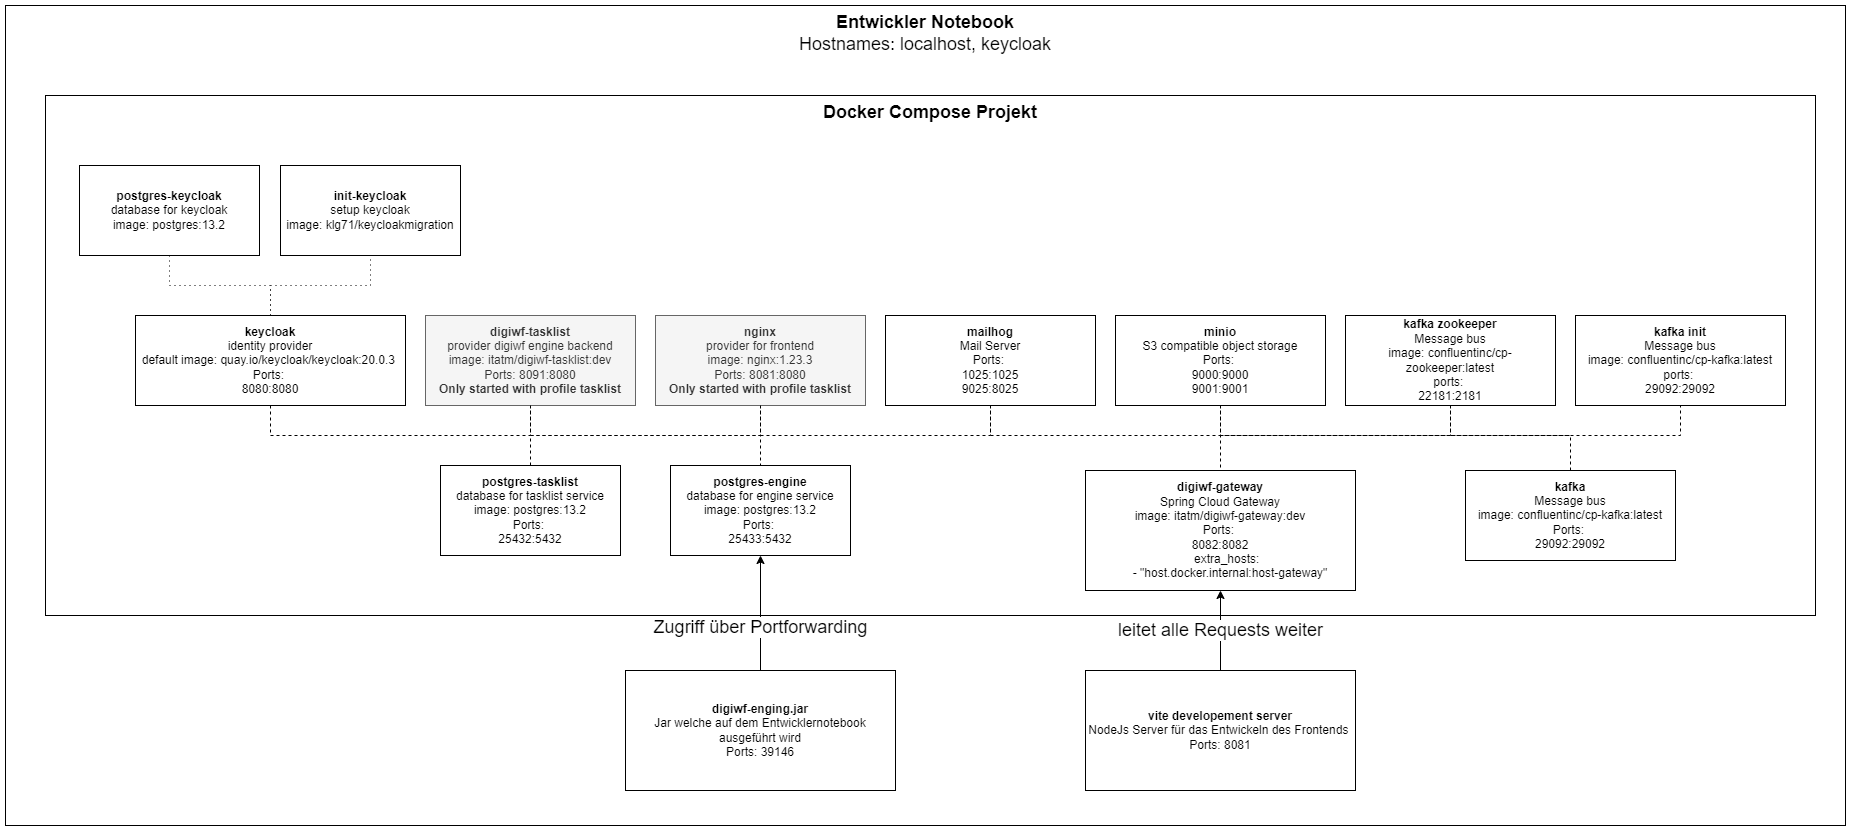
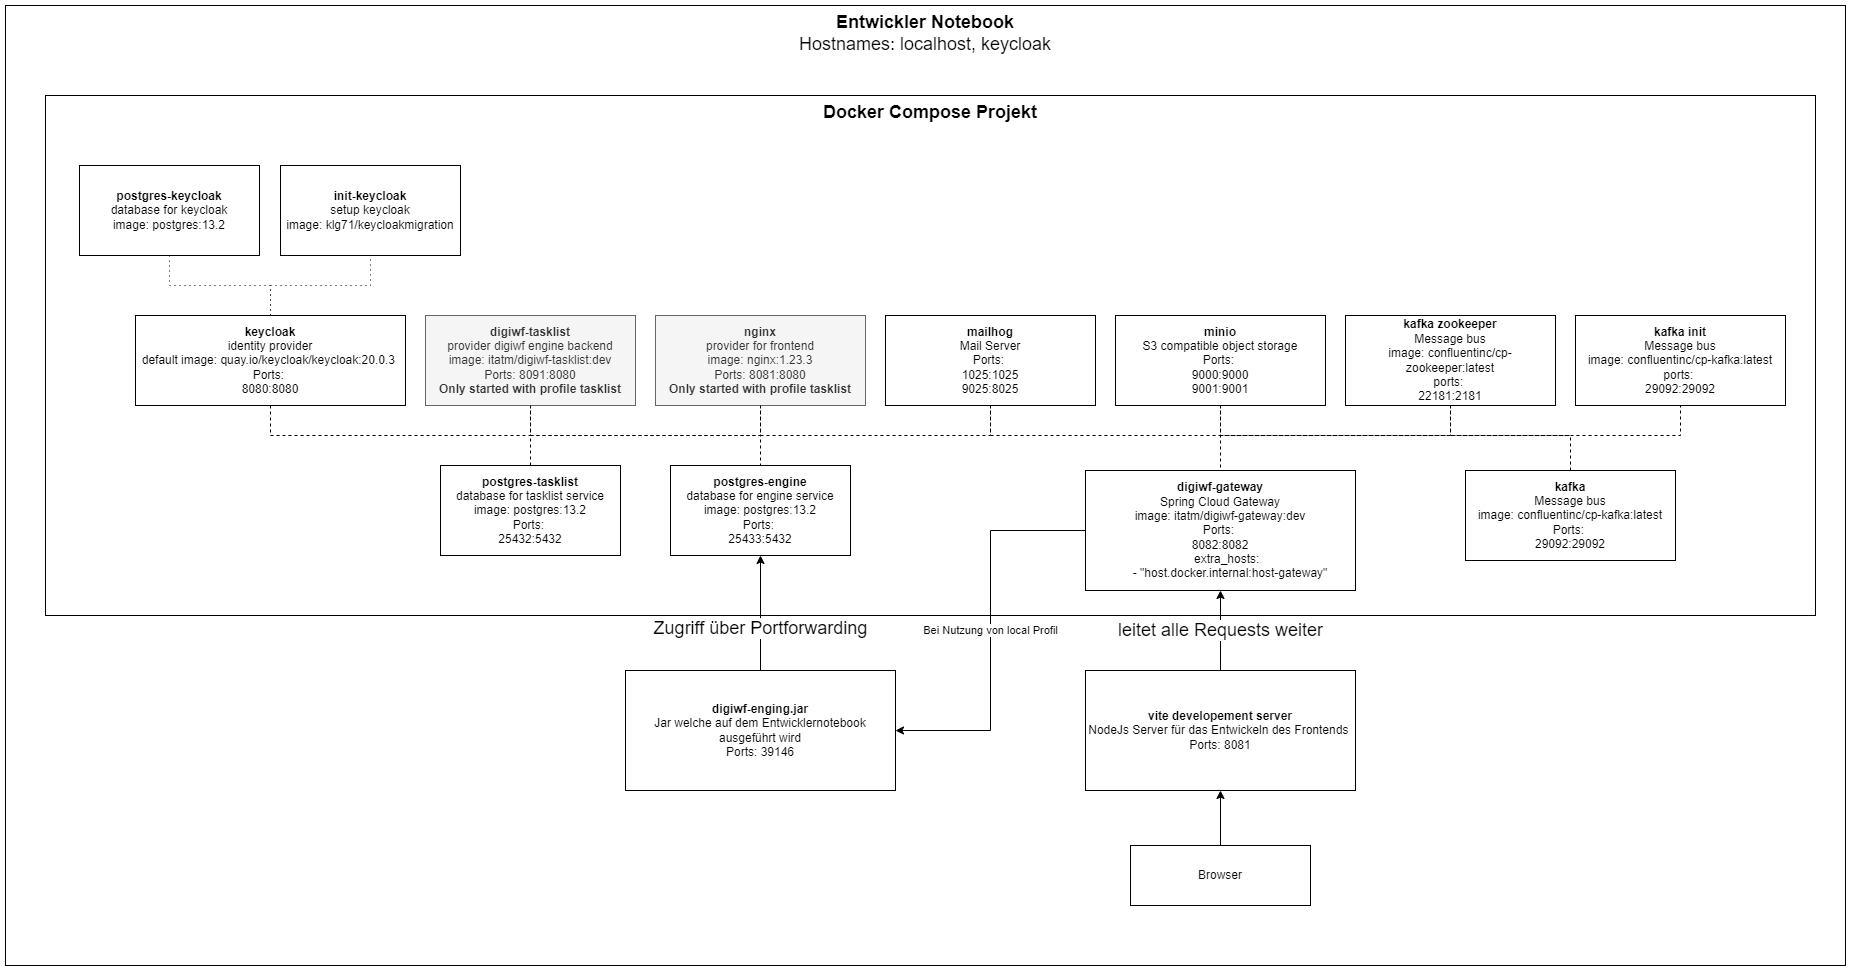
#182: worked on documentation

diff --git a/docs/src/documentation/guides/technical-setup/README.md b/docs/src/documentation/guides/technical-setup/README.md
@@ -29,20 +29,69 @@ Die lokale Infrastruktur ist mittels docker-compose aufgesetzt.
 
 In der folgenden Abbildung ist der grundlegende Aufbau zu sehen:
 
-![grundlegendender Aufbau des lokalen Stacks](~@source/images/platform/guides/technical-setup/docker-setup.png)
+![grundlegender Aufbau des lokalen Stacks](~@source/images/platform/guides/technical-setup/docker-setup.png)
 
+Dabei werden folgende Bausteine verwendet:
 
-
+* [PostgreSQL](https://www.postgresql.org/)
+* [Keycloak](https://www.keycloak.org/)
+* [Keycloak Migration](https://github.com/mayope/keycloakmigration)
+* [Apache Kafka](https://kafka.apache.org/)
+* [Nginx](https://www.nginx.com/)
 
 ### Mögliche Szenarien zum Starten der Infrastruktur
 
+Aktuell gibt es zwei mögliche Szenarien.
+
 #### Szenario 1: lokale Infrastruktur starten um Tasklist Backend und Frontend zu entwickeln
 
-Im Ordner _stack_ ausführen:
+Das erste Szenario ist für die Entwicklung der Tasklist (aktuelles Wording: Engine). Dabei wird das Docker-Compose Projekt so gestartet, dass die notwendigen Servies mit der Tasklist-backend Jar (aktuelles Wording: digiwf-engine) und dem Vite Server für das Tasklist Frontend kommunizieren können.
+
+Dazu in der `stack/docker-compose.yaml` die Konfiguration des Api Gateways (Servicename: digiwf-gateway) anpassen.
+
+Environments: 
+
+```
+SPRING_PROFILES_ACTIVE: local
+ENGINE_SERVER_HOST: "host.docker.internal"
+```
+
+Des Weiteren müssen die extra_hosts noch konfiguriert werden: 
+
+```
+extra_hosts:
+  - "host.docker.internal:host-gateway"
+```
+
+Danach das Docker Compose Projekt starten. 
+Dazu im Ordner _stack_ ausführen:
 
 ```docker compose up -d```
 
-### Szenario 2: lokale Infrastruktur starten um alles in Docker Containern zu betreiben
+Danach sollte die Ausgabe von `docker ps` ungefähr wie folgt aussehen:
+
+![Ausgabe von docker ps mit allen gestarteten Services](~@source/images/platform/guides/technical-setup/docker-ps-output.png)
+
+Wenn das Api Gateway nicht hochgefahren ist, noch einmal `docker compose up -d` ausführen.
+
+Danach startet man das Tasklist Backend (EngineServiceApplication). 
+
+Dazu startet man dieses mit folgenden Profilen: local, streaming, no-ldap
+
+Zusätzlich bindet man die .env Datei aus dem Stack Ordner ein (Dafür kann man das Idea Plugin [EnvFile](https://plugins.jetbrains.com/plugin/7861-envfile) nutzen)
+
+Ist das Backend erfolgreich gestartet, startet man noch das Frontend. (`npm run serve:tasklist` im _digiwf-apps_ Ordner)
+
+Danach im Browser [http://localhost:8082](http://localhost:8082) aufrufen. Damit wird man auf das Api Gateway geleitet.
+
+Es sollte eine Anmeldeseite erscheinen, welche von Keycloak bereitgestellt wird.
+
+Dort meldet man sich mit dem Nutzername _johndoe_ und dem Passwort _test_ an.
+Bei erfolgreichem Login bekommt man eine 500 zurück.  
+
+Danach wechselt man auf [http://localhost:8081](http://localhost:8081). Man sollte jetzt das Frontend sehen. Alle Netzwerkrequests sollten erfolgreich beantwortet werden können.
+
+### Szenario 2: lokale Infrastruktur starten, um alles in Docker Containern zu betreiben
 
 Im Ordner _stack- ausführen:
 ```docker compose --profile tasklist up -d```
